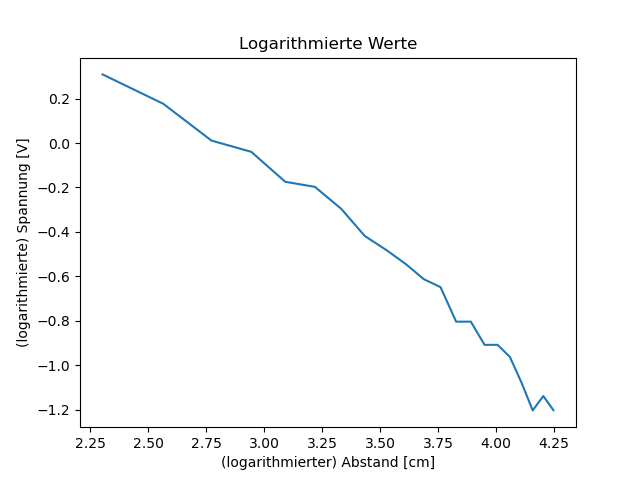
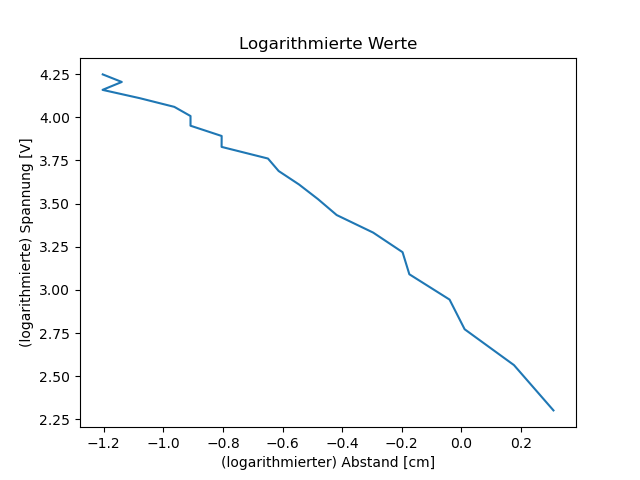
fix calculations in versuch 1

diff --git a/Versuche/1/main.py b/Versuche/1/main.py
@@ -19,7 +19,7 @@ def conv(_):
 
 def read(path):
     return np.genfromtxt((conv(_) for _ in open(path)), delimiter=';',
-                         dtype=np.double, skip_header=300, skip_footer=50, usecols=1)  # how many entries?
+                         dtype=np.double, skip_header=300, skip_footer=50, usecols=1)
 
 
 # umkehrung
@@ -37,15 +37,14 @@ if __name__ == '__main__':
         std.append(np.std(values))
 
     # calculate logarithms
-    log_x, log_y = np.log(x), np.log(y)
+    log_volt, log_dist = np.log(y), np.log(x)
 
     # calculate linear regression
-    result = stats.linregress(log_x, log_y)
-    x1 = np.linspace(np.min(log_x), np.max(log_x), 21)
+    result = stats.linregress(log_volt, log_dist)
+    x1 = np.linspace(np.min(log_volt), np.max(log_volt), 21)
     a = result.slope
     b = result.intercept
     y1 = result.slope * x1 + result.intercept  # slope -> gradient
-
 
     # 1st plot - characteristic curve
     plt.title('Kennlinie')
@@ -70,15 +69,15 @@ if __name__ == '__main__':
     plt.title('Logarithmierte Werte')
     plt.xlabel('(logarithmierter) Abstand [cm]')
     plt.ylabel('(logarithmierte) Spannung [V]')
-    plt.plot(log_x, log_y)
+    plt.plot(log_volt, log_dist)
     plt.savefig('plots/log.png')
     plt.show()
 
     # 4th plot - linear regression
     plt.title('Lineare Regression - Ausgleichsgerade')
-    plt.xlabel('(logarithmierter) Abstand [cm]')
-    plt.ylabel('(logarithmierte) Spannung [V]')
-    plt.plot(log_x, log_y, 'ob')
+    plt.ylabel('(logarithmierter) Abstand [cm]')
+    plt.xlabel('(logarithmierte) Spannung [V]')
+    plt.plot(log_volt, log_dist, 'ob')
     plt.plot(x1, y1, '-r')
     plt.savefig('plots/linear-regression.png')
     plt.show()
@@ -90,7 +89,7 @@ if __name__ == '__main__':
     a4_width = read(f'data/a4-breit.csv')
     a4_width_mean = np.mean(a4_width)
 
-    std = np.std(a4_length) / len(a4_length)
+    std = np.std(a4_length) / math.sqrt(len(a4_length))  # Standardabweichung / Wurzel(n)
     print(f'std = {std}\n')
     print(f'68.26%: result is between {a4_length_mean - std} V and {a4_length_mean + std} V')
     print(f'95%: result is between {a4_length_mean - 1.96 * std} V and {a4_length_mean + 1.96 * std} V\n')
@@ -100,7 +99,7 @@ if __name__ == '__main__':
 
     print('---------------------------------------------------------------------------------------')
 
-    std = np.std(a4_width) / len(a4_width)
+    std = np.std(a4_width) / math.sqrt(len(a4_width))  # Standardabweichung / Wurzel(n)
     print(f'std = {std}\n')
     print(f'68.26%: result is between {a4_width_mean - std} V and {a4_width_mean + std} V')
     print(f'95%: result is between {a4_width_mean - 1.96 * std} V and {a4_width_mean + 1.96 * std} V\n')
@@ -112,5 +111,5 @@ if __name__ == '__main__':
 
     length_dist = f(a4_length_mean)
     width_dist = f(a4_width_mean)
-    print("Fläche: x = %f +- %f [cm^2]" % (length_dist * width_dist, math.sqrt((length_dist * length_err) ** 2
-                                                                               + (width_dist * width_err) ** 2)))
+    print("Fläche: x = %f +- %f [cm^2]" % (length_dist * width_dist, math.sqrt((width_dist * length_err) ** 2
+                                                                               + (length_dist * width_err) ** 2)))
